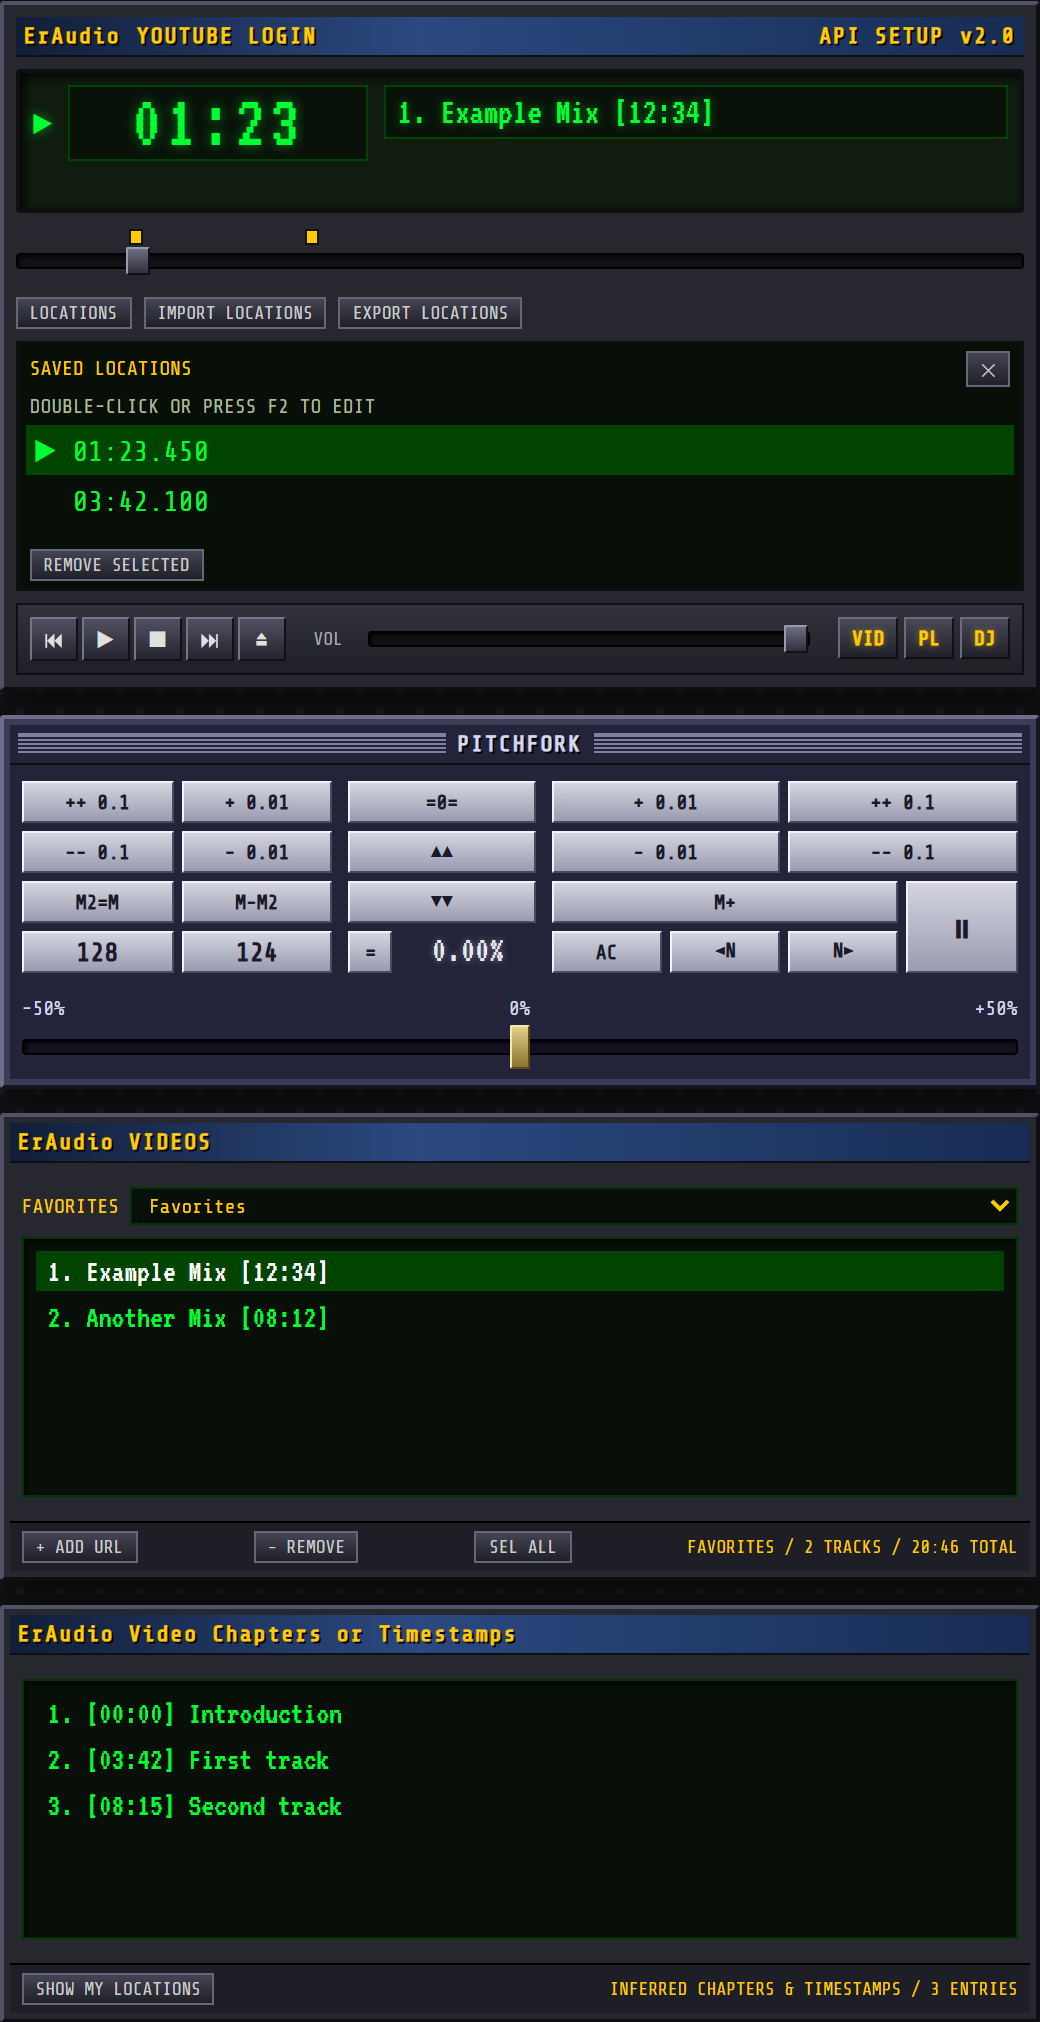
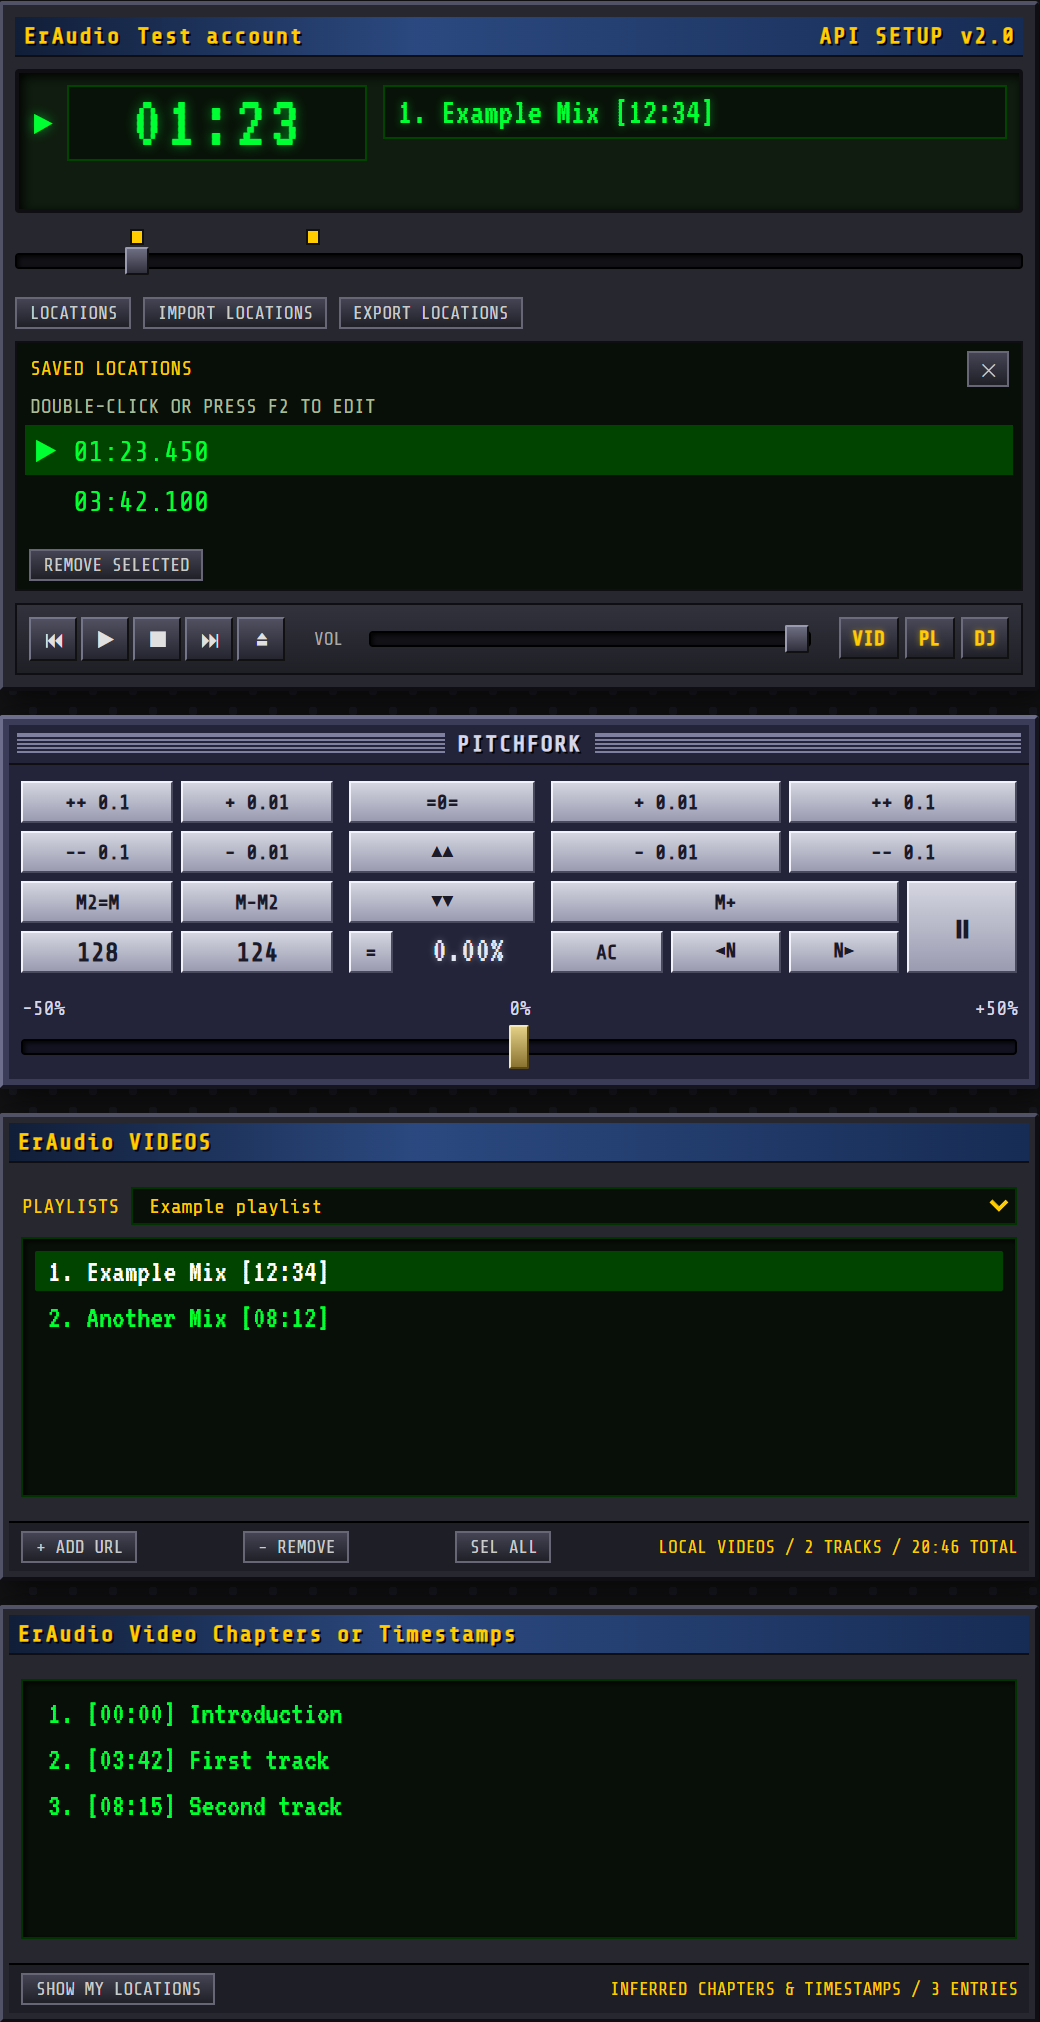
UI FAVORITES Changes & README image updates

diff --git a/app.js b/app.js
@@ -43,11 +43,9 @@ const locationsFile = document.querySelector('#locations-file');
 const nudgeMessage = document.querySelector('#nudge-message');
 const savedLocationsStorageKey = 'eraudio:saved-locations';
 const maxSavedLocations = 50;
-const favoritesSelect = document.querySelector('#favorites-select');
-const playlistSourceRow = document.querySelector('#playlist-source-row');
+const playlistSelect = document.querySelector('#playlist-select');
 const playlistList = document.querySelector('#playlist-list');
 const playlistInfo = document.querySelector('#playlist-info');
-const favoritesStorageKey = 'eraudio:selected-favorites-list';
 const addedTracksStorageKey = 'eraudio:added-tracks';
 const defaultTrack = {
   title: 'Rooftop Party in the French Riviera | Settow',
@@ -95,7 +93,7 @@ let youtubeAuthGeneration = 0;
 const favoriteLists = [
   {
     id: 'favorites',
-    name: 'Favorites',
+    name: 'Local videos',
     tracks: [defaultTrack],
   },
 ];
@@ -199,8 +197,6 @@ function currentList() {
 function renderFavoritesList(listId) {
   const selectedList = favoriteLists.find((list) => list.id === listId) || favoriteLists[0];
   currentListId = selectedList.id;
-  writeStoredValue(favoritesStorageKey, selectedList.id);
-  favoritesSelect.value = selectedList.id;
   playlistList.replaceChildren(...selectedList.tracks.map((track, index) => {
     const item = document.createElement('button');
     item.className = `playlist-item${track === playingTrack ? ' active' : ''}${track.selected ? ' selected' : ''}`;
@@ -244,15 +240,7 @@ function restoreAddedTracks() {
 
 function initializeFavorites() {
   restoreAddedTracks();
-  favoritesSelect.replaceChildren(...favoriteLists.map((list) => {
-    const option = document.createElement('option');
-    option.value = list.id;
-    option.textContent = list.name;
-    return option;
-  }));
-  playlistSourceRow.hidden = favoriteLists.length < 2;
-  const savedListId = readStoredValue(favoritesStorageKey);
-  renderFavoritesList(favoriteLists.some((list) => list.id === savedListId) ? savedListId : favoriteLists[0].id);
+  renderFavoritesList(favoriteLists[0].id);
 }
 
 function setYouTubeAccount(accountName) {
@@ -271,11 +259,6 @@ function parseIsoDurationSeconds(value) {
   const totalSeconds = (Number(match[1] || 0) * 86400) + (Number(match[2] || 0) * 3600)
     + (Number(match[3] || 0) * 60) + Number(match[4] || 0);
   return Number.isSafeInteger(totalSeconds) && totalSeconds > 0 ? totalSeconds : null;
-}
-
-function parseIsoDuration(value) {
-  const totalSeconds = parseIsoDurationSeconds(value) || 0;
-  return `${String(Math.floor(totalSeconds / 60)).padStart(2, '0')}:${String(totalSeconds % 60).padStart(2, '0')}`;
 }
 
 async function youtubeApi(path, params, { apiKey = '' } = {}) {
@@ -299,41 +282,14 @@ async function fetchAllPages(path, params) {
   return items;
 }
 
-async function loadPlaylistTracks(list) {
-  if (list.loaded || !list.playlistId) return;
-  const entries = await fetchAllPages('playlistItems', {
-    part: 'snippet,contentDetails',
-    playlistId: list.playlistId,
-    maxResults: '50',
-  });
-  const playable = entries.filter((entry) => entry.contentDetails?.videoId
-    && !['Private video', 'Deleted video'].includes(entry.snippet?.title));
-  const durations = new Map();
-  for (let start = 0; start < playable.length; start += 50) {
-    const ids = playable.slice(start, start + 50).map((entry) => entry.contentDetails.videoId);
-    const videos = await youtubeApi('videos', { part: 'contentDetails', id: ids.join(','), maxResults: '50' });
-    videos.items.forEach((video) => durations.set(video.id, parseIsoDuration(video.contentDetails.duration)));
-  }
-  list.tracks = playable.map((entry) => ({
-    title: entry.snippet.title,
-    videoId: entry.contentDetails.videoId,
-    duration: durations.get(entry.contentDetails.videoId) || '00:00',
-  }));
-  list.loaded = true;
-}
-
-async function selectFavoritesList(listId) {
-  const list = favoriteLists.find((candidate) => candidate.id === listId) || favoriteLists[0];
-  try {
-    await loadPlaylistTracks(list);
-  } catch (error) {
-    announceEvent({ type: 'error', name: error.message });
-  }
-  renderFavoritesList(list.id);
+function setPlaylistPlaceholder(message) {
+  playlistSelect.replaceChildren(new Option(message, ''));
+  playlistSelect.disabled = true;
 }
 
 async function loadAccountPlaylists(generation) {
-  const channels = await youtubeApi('channels', { part: 'snippet,contentDetails', mine: 'true' });
+  setPlaylistPlaceholder('Loading playlists...');
+  const channels = await youtubeApi('channels', { part: 'snippet', mine: 'true' });
   if (generation !== youtubeAuthGeneration) return;
   const channel = channels.items?.[0];
   if (!channel) throw new Error('No YouTube channel found for this account.');
@@ -341,26 +297,16 @@ async function loadAccountPlaylists(generation) {
 
   const playlists = await fetchAllPages('playlists', { part: 'snippet', mine: 'true', maxResults: '50' });
   if (generation !== youtubeAuthGeneration) return;
-  const accountLists = [];
-  const related = channel.contentDetails.relatedPlaylists;
-  const addedTracks = favoriteLists.flatMap((list) => list.tracks.filter((track) => track.added));
-  if (related.likes) accountLists.push({ id: related.likes, playlistId: related.likes, name: 'Liked videos', tracks: [] });
-  playlists.forEach((playlist) => {
-    accountLists.push({ id: playlist.id, playlistId: playlist.id, name: playlist.snippet.title, tracks: [] });
-  });
-  if (addedTracks.length) accountLists.push({ id: 'added-videos', name: 'Added videos', tracks: addedTracks, loaded: true });
-  if (!accountLists.length) return;
-
-  favoriteLists.splice(0, favoriteLists.length, ...accountLists);
-  playingList = favoriteLists.find((list) => list.tracks.includes(playingTrack)) || playingList;
-  favoritesSelect.replaceChildren(...favoriteLists.map((list) => {
-    const option = document.createElement('option');
-    option.value = list.id;
-    option.textContent = list.name;
-    return option;
-  }));
-  playlistSourceRow.hidden = false;
-  await selectFavoritesList(favoriteLists[0].id);
+  if (!playlists.length) {
+    setPlaylistPlaceholder('No playlists found');
+    return;
+  }
+  const placeholder = new Option('Select a playlist', '', true, true);
+  placeholder.disabled = true;
+  playlistSelect.replaceChildren(placeholder, ...playlists.map((playlist) => (
+    new Option(playlist.snippet.title, playlist.id)
+  )));
+  playlistSelect.disabled = false;
 }
 
 let tokenClient = null;
@@ -394,7 +340,9 @@ function getTokenClient() {
       try {
         await loadAccountPlaylists(generation);
       } catch (error) {
-        announceEvent({ type: 'error', name: error.message });
+        if (generation !== youtubeAuthGeneration) return;
+        setPlaylistPlaceholder('Could not load playlists');
+        showLoginError(`Could not load YouTube playlists: ${error.message}`);
       }
     },
     error_callback: (error) => {
@@ -457,23 +405,12 @@ function resetAccountSession() {
   youtubeAuthGeneration += 1;
   tokenClient = null;
   silentAttempt = false;
-  const wasSignedIn = Boolean(youtubeAccessToken);
   youtubeAccessToken = '';
   writeStoredValue(youtubeAccountStorageKey, '');
   youtubeLoginLabel.textContent = 'YOUTUBE LOGIN';
   youtubeLoginButton.dataset.tooltip = 'Sign in to YouTube';
   youtubeLoginButton.setAttribute('aria-label', 'Sign in to YouTube');
-  if (!wasSignedIn) return;
-
-  const tracks = [defaultTrack, ...favoriteLists.flatMap((list) => list.tracks.filter((track) => track.added))];
-  if (playingTrack && !tracks.includes(playingTrack)) tracks.push(playingTrack);
-  const list = { id: 'favorites', name: 'Favorites', tracks };
-  favoriteLists.splice(0, favoriteLists.length, list);
-  playingList = playingTrack ? list : null;
-  favoritesSelect.replaceChildren(new Option(list.name, list.id));
-  playlistSourceRow.hidden = true;
-  renderFavoritesList(list.id);
-  updateNowPlaying();
+  setPlaylistPlaceholder('Sign in to load playlists');
 }
 
 youtubeSettingsButton.addEventListener('click', () => showCredentialsDialog());
@@ -1529,10 +1466,6 @@ controls.speed.addEventListener('keyup', (event) => {
   if (['ArrowLeft', 'ArrowDown', 'ArrowRight', 'ArrowUp'].includes(event.key)) finishSpeedKeyChange();
 });
 controls.speed.addEventListener('blur', finishSpeedKeyChange);
-
-favoritesSelect.addEventListener('change', () => {
-  selectFavoritesList(favoritesSelect.value);
-});
 
 youtubeLoginButton.addEventListener('click', () => requestYouTubeLogin());
 trySilentLogin();

diff --git a/index.html b/index.html
@@ -166,19 +166,21 @@
       </div>
 
       <div class="playlist-body">
-        <div class="playlist-source" id="playlist-source-row" hidden>
-          <label for="favorites-select">FAVORITES</label>
-          <select id="favorites-select" aria-label="Select Favorites list"></select>
+        <div class="playlist-source">
+          <label for="playlist-select">PLAYLISTS</label>
+          <select id="playlist-select" disabled>
+            <option value="">Sign in to load playlists</option>
+          </select>
         </div>
         <!-- Playlist Tracks List -->
-        <div class="playlist-list" id="playlist-list" aria-label="Favorite videos"></div>
+        <div class="playlist-list" id="playlist-list" aria-label="Local videos"></div>
       </div>
 
       <div class="playlist-footer">
         <button class="pl-btn" type="button" data-action="add-url">+ ADD URL</button>
         <button class="pl-btn" type="button" data-action="remove-track">- REMOVE</button>
         <button class="pl-btn" type="button" data-action="select-all">SEL ALL</button>
-        <div class="pl-info" id="playlist-info">FAVORITES</div>
+        <div class="pl-info" id="playlist-info">LOCAL VIDEOS</div>
       </div>
     </div>
 

diff --git a/README.md b/README.md
@@ -108,7 +108,7 @@ The YouTube Data API has a quota; a request can also fail because of key restric
 
 #### YouTube account playlists
 
-An OAuth client ID is needed only for **YOUTUBE LOGIN** and account playlists, not for public chapters when you use an API key. Clicking **YOUTUBE LOGIN** signs in with Google, replaces the sample list with the account's **Liked videos** and own playlists, and can also retrieve video descriptions. If the browser already has a Google session that previously approved your OAuth client, sign-in is attempted automatically on page load.
+An OAuth client ID is needed only for **YOUTUBE LOGIN** and account playlists, not for public chapters when you use an API key. After sign-in, the **PLAYLISTS** dropdown in the Videos window lists the account's own YouTube playlists by name. Selecting one does not load its videos yet; the local video list remains unchanged. Sign-in can also retrieve video descriptions. If the browser already has a Google session that previously approved your OAuth client, sign-in is attempted automatically on page load.
 
 1. In [Google Cloud Console](https://console.cloud.google.com), create a project (or choose an existing one).
 2. Under **APIs & Services → Library**, enable **YouTube Data API v3**.
